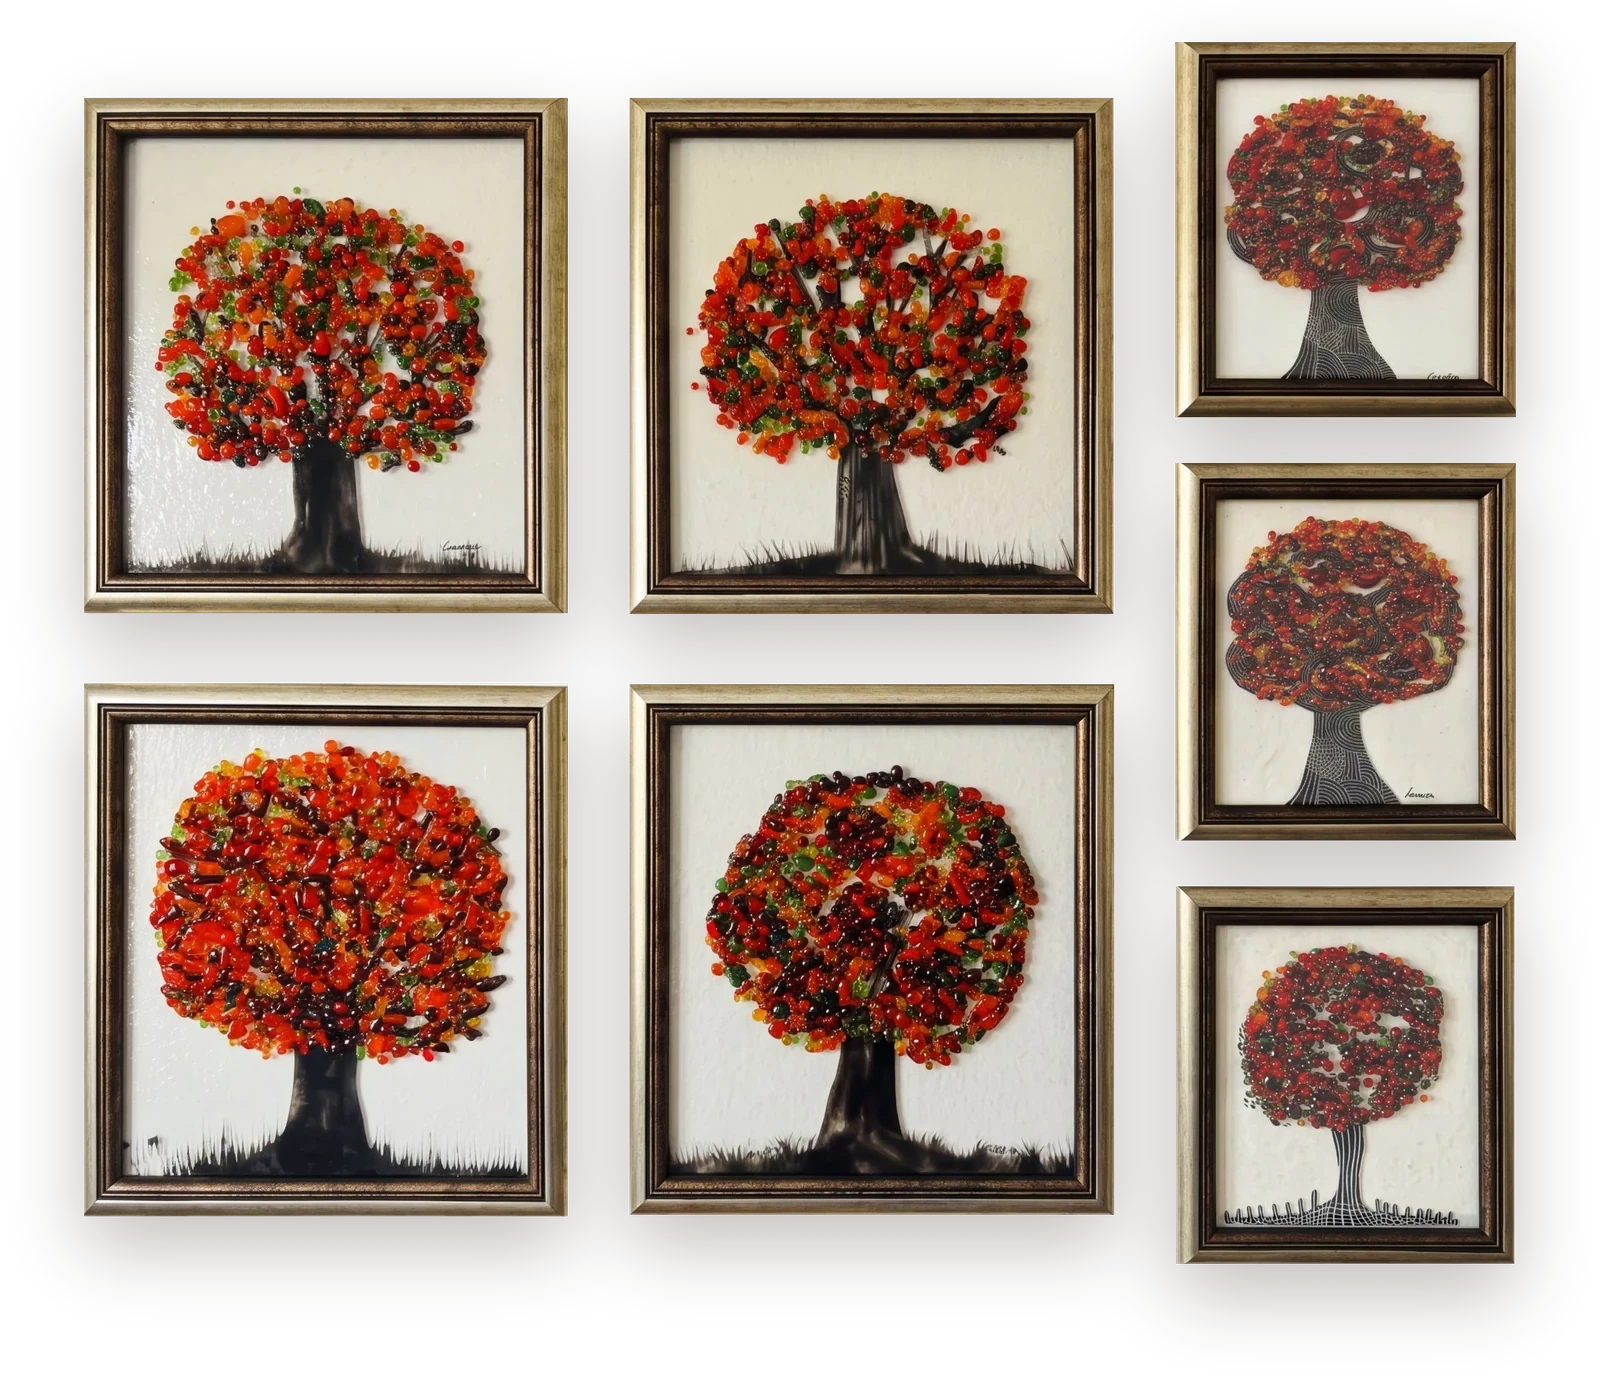
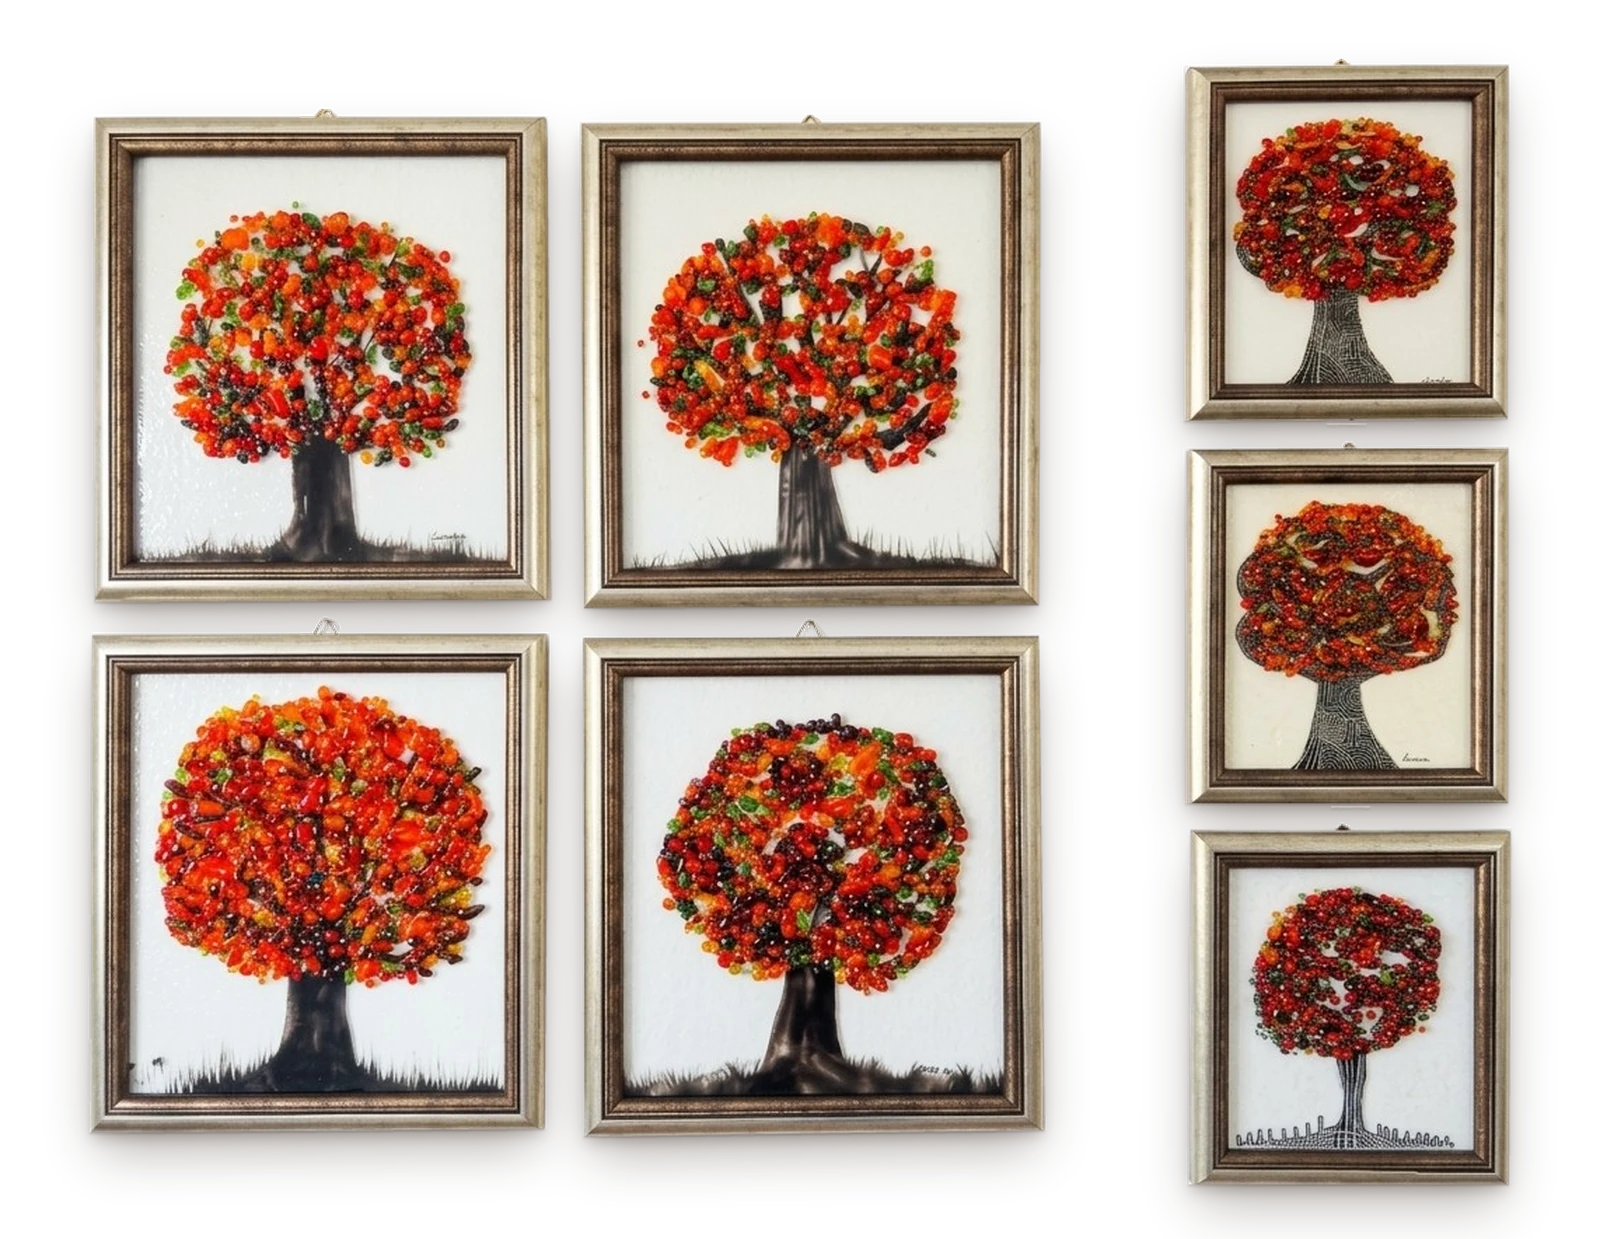
New gallery-wall photo in the author section; collection sorted small to large
- The seven Trees of Life from the new photo are cut out along each frame
  edge (with their hooks) and hung on a transparent background with a soft
  baked shadow, so the page's sand colour shows through instead of a white
  wall
- Works are ordered from the smallest to the largest (by the size shown on
  the card); 'малък размер' counts as small, unknown sizes go last

Claude-Session: https://claude.ai/code/session_01Ejjvzof7c4Qtrug9YXuF8N

diff --git a/main.js b/main.js
@@ -20,8 +20,8 @@ const hasPrice = v => v !== null && v !== undefined && v !== "";
 const priceLabel = w => hasSizes(w) ? money(w.sizes[0].price) : hasPrice(w.price) ? money(w.price) : "по запитване";
 const sizeLabel = w => w.size || "размер при запитване";
 // physical area in cm², used to order the collection from the largest piece to the smallest
-const area = w => { const m = String(hasSizes(w) ? w.sizes[w.sizes.length - 1].size : w.size || "").replace(",", ".").match(/([\d.]+)\s*[×x]\s*([\d.]+)/);
-  return m ? m[1] * m[2] : 0; };
+const area = w => { const t = String(hasSizes(w) ? w.sizes[0].size : w.size || ""), m = t.replace(",", ".").match(/([\d.]+)\s*[×x]\s*([\d.]+)/);
+  return m ? m[1] * m[2] : /малък/i.test(t) ? 1 : 0; };  // "малък размер" sorts with the smallest
 const byId = id => WORKS.find(w => w.id === id);
 const FRAMES = { platinum: "Платина", walnut: "Тъмен орех", black: "Черно и сребро" };
 const store = {
@@ -91,7 +91,7 @@ function renderGrid(cat) {
   const soon = cat === "soon";
   $("#soon").hidden = !soon; $("#grid").hidden = soon;
   $("#catNote").textContent = soon ? "" : CAT_NOTE[cat];
-  if (!soon) $("#grid").innerHTML = WORKS.filter(w => w.cat === cat).sort((a, b) => (area(b) || -1) - (area(a) || -1)).map(card).join("");
+  if (!soon) $("#grid").innerHTML = WORKS.filter(w => w.cat === cat).sort((a, b) => (area(a) || Infinity) - (area(b) || Infinity)).map(card).join("");
   observe($("#grid"));
 }
 $$(".tabs button").forEach(t => t.addEventListener("click", () => {

diff --git a/index.html b/index.html
@@ -121,7 +121,7 @@
         </dl>
       </div>
     </div>
-    <figure class="author-fig rv"><img src="assets/img/collection-wall.webp?v=3" alt="Дървета на живота на стената в галерията" loading="lazy" width="1600" height="1390"></figure>
+    <figure class="author-fig rv"><img src="assets/img/collection-wall.webp?v=4" alt="Дървета на живота на стената в галерията" loading="lazy" width="1600" height="1239"></figure>
   </section>
 
   <section class="block contacts" id="kontakti">
@@ -298,6 +298,6 @@
   <a class="q-call" id="qCall" href="#" aria-label="Обадете се"><svg viewBox="0 0 24 24" aria-hidden="true"><path d="M6.6 3.5 8.8 3c.5-.1 1 .2 1.2.7l1 2.6c.2.4 0 .9-.3 1.2L9.3 8.7a11 11 0 0 0 6 6l1.2-1.4c.3-.3.8-.5 1.2-.3l2.6 1c.5.2.8.7.7 1.2l-.5 2.2c-.1.5-.6.9-1.1.9C10.2 18.3 5.7 13.8 5.7 4.6c0-.5.4-1 .9-1.1Z" fill="none" stroke="currentColor" stroke-width="1.6" stroke-linejoin="round"/></svg></a>
 </div>
 
-<script src="boot.js?v=10" defer></script>
+<script src="boot.js?v=11" defer></script>
 </body>
 </html>

diff --git a/boot.js b/boot.js
@@ -2,5 +2,5 @@
 Promise.all(["data/works.json", "data/site.json"].map(u => fetch(u, { cache: "no-cache" }).then(r => r.json()).catch(() => ({}))))
   .then(([w, site]) => {
     window.WORKS_DATA = w.works || []; window.SITE = site || {};
-    const s = document.createElement("script"); s.src = "main.js?v=10"; document.body.appendChild(s);
+    const s = document.createElement("script"); s.src = "main.js?v=11"; document.body.appendChild(s);
   });
